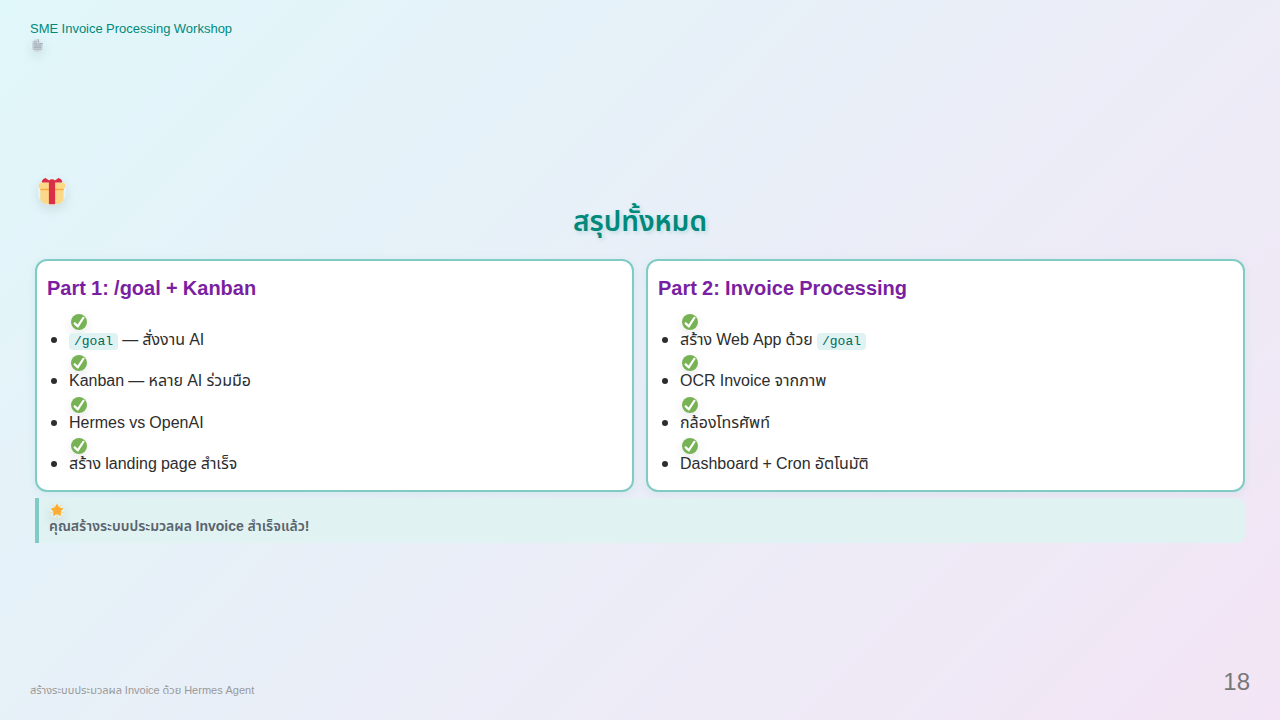
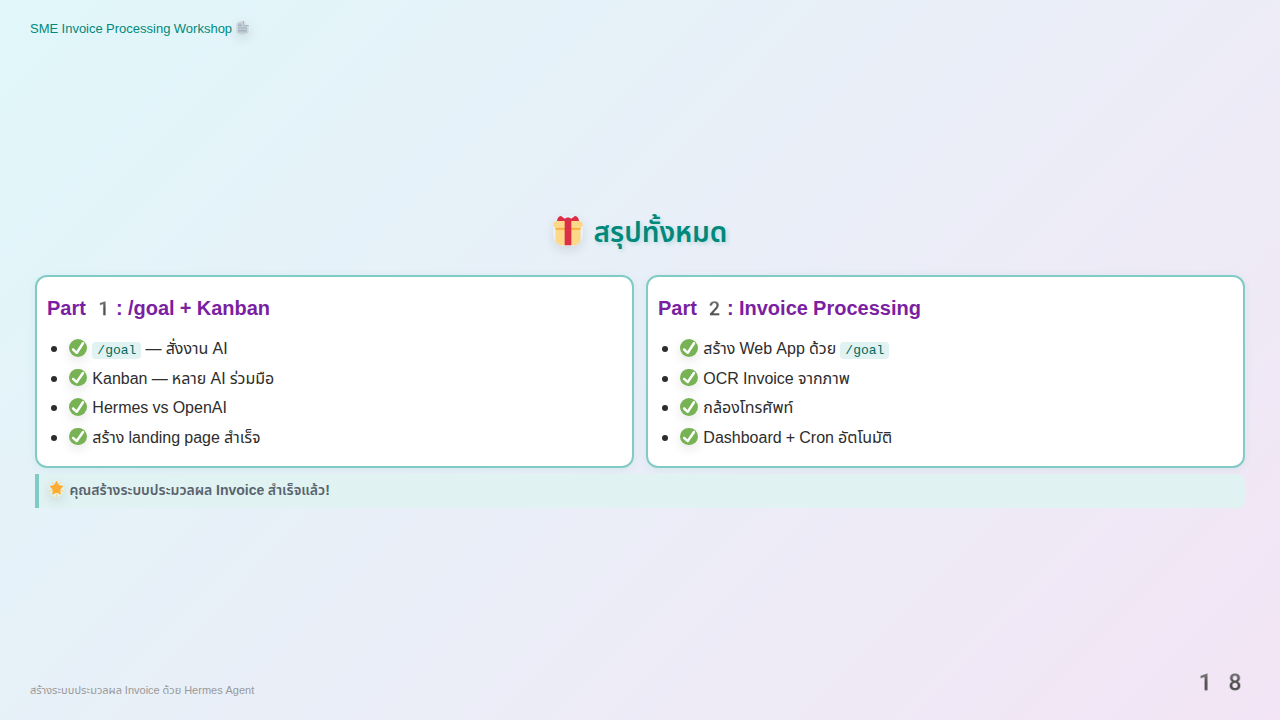
Fix emoji inline rendering with CSS
- Add CSS rules for img.emoji and img[data-marp-twemoji]
- Force display:inline for Marp's Twemoji SVG images
- Set proper width/height (1em) and vertical-align
- All 21 slides verified: no overflow, emoji inline with text

diff --git a/slides/sme-invoice-processing.md b/slides/sme-invoice-processing.md
@@ -6,7 +6,7 @@ header: "SME Invoice Processing Workshop 📄"
 footer: "สร้างระบบประมวลผล Invoice ด้วย Hermes Agent"
 style: |
   section {
-    font-family: 'Sarabun', 'Noto Sans Thai', sans-serif;
+    font-family: 'Sarabun', 'Noto Sans Thai', 'Noto Color Emoji', sans-serif;
     font-size: 16px;
     line-height: 1.35;
     padding: 25px 35px;
@@ -17,6 +17,41 @@ style: |
     display: flex;
     flex-direction: column;
     justify-content: center;
+  }
+  
+  section * {
+    font-family: inherit;
+    unicode-bidi: plaintext;
+  }
+  
+  section li,
+  section p,
+  section td,
+  section th,
+  section h1,
+  section h2,
+  section h3 {
+    line-height: 1.6;
+    word-break: keep-all;
+    overflow-wrap: break-word;
+    white-space: normal;
+  }
+  
+  /* Fix emoji to render inline with text */
+  img.emoji, .emoji {
+    display: inline !important;
+    width: 1em !important;
+    height: 1em !important;
+    vertical-align: -0.1em !important;
+    margin: 0 0.1em 0 0 !important;
+  }
+  
+  img[data-marp-twemoji] {
+    display: inline !important;
+    width: 1.1em !important;
+    height: 1.1em !important;
+    vertical-align: -0.15em !important;
+    margin: 0 0.1em 0 0 !important;
   }
   section.lead {
     justify-content: center;
@@ -77,7 +112,7 @@ style: |
     margin: 6px 0;
     box-shadow: 0 2px 8px rgba(128,203,196,0.2);
     max-width: 100%;
-    overflow: hidden;
+    overflow: visible;
   }
   .emoji-big { font-size: 32px; text-align: center; }
   table {
